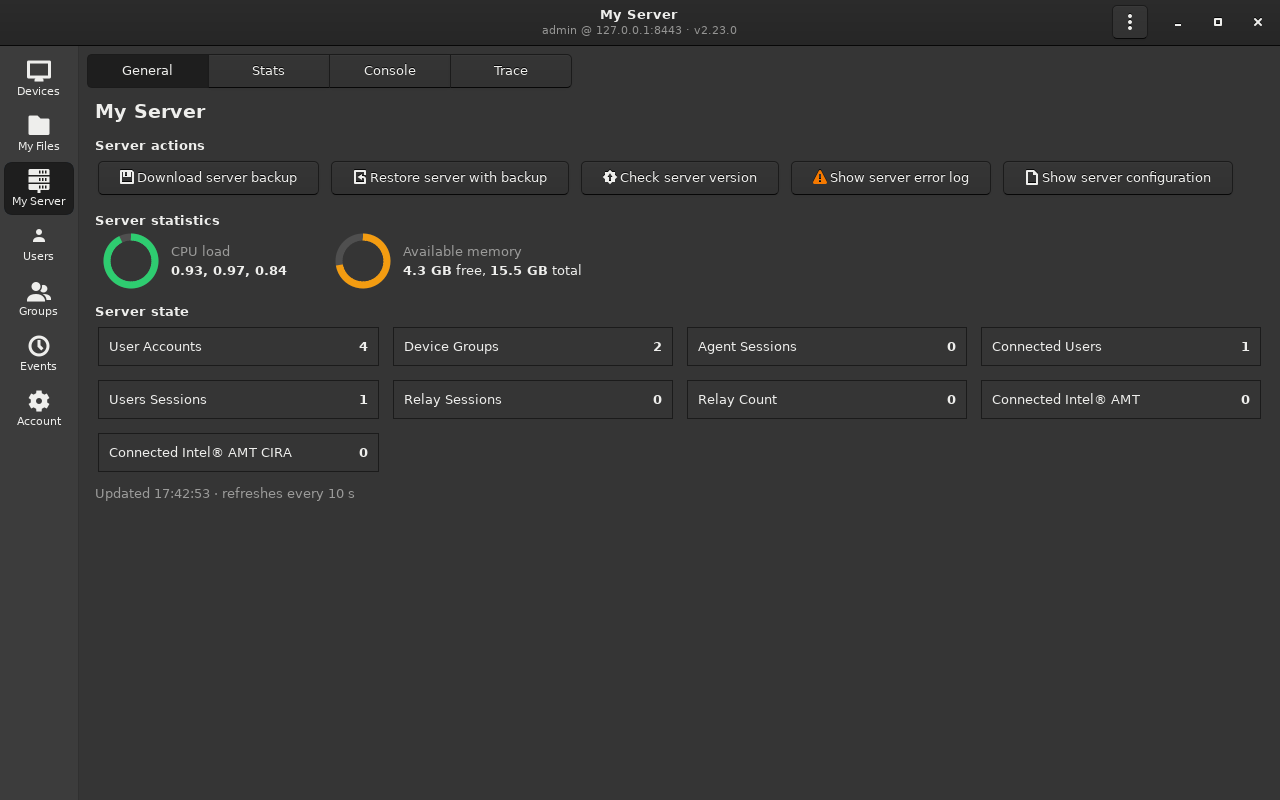
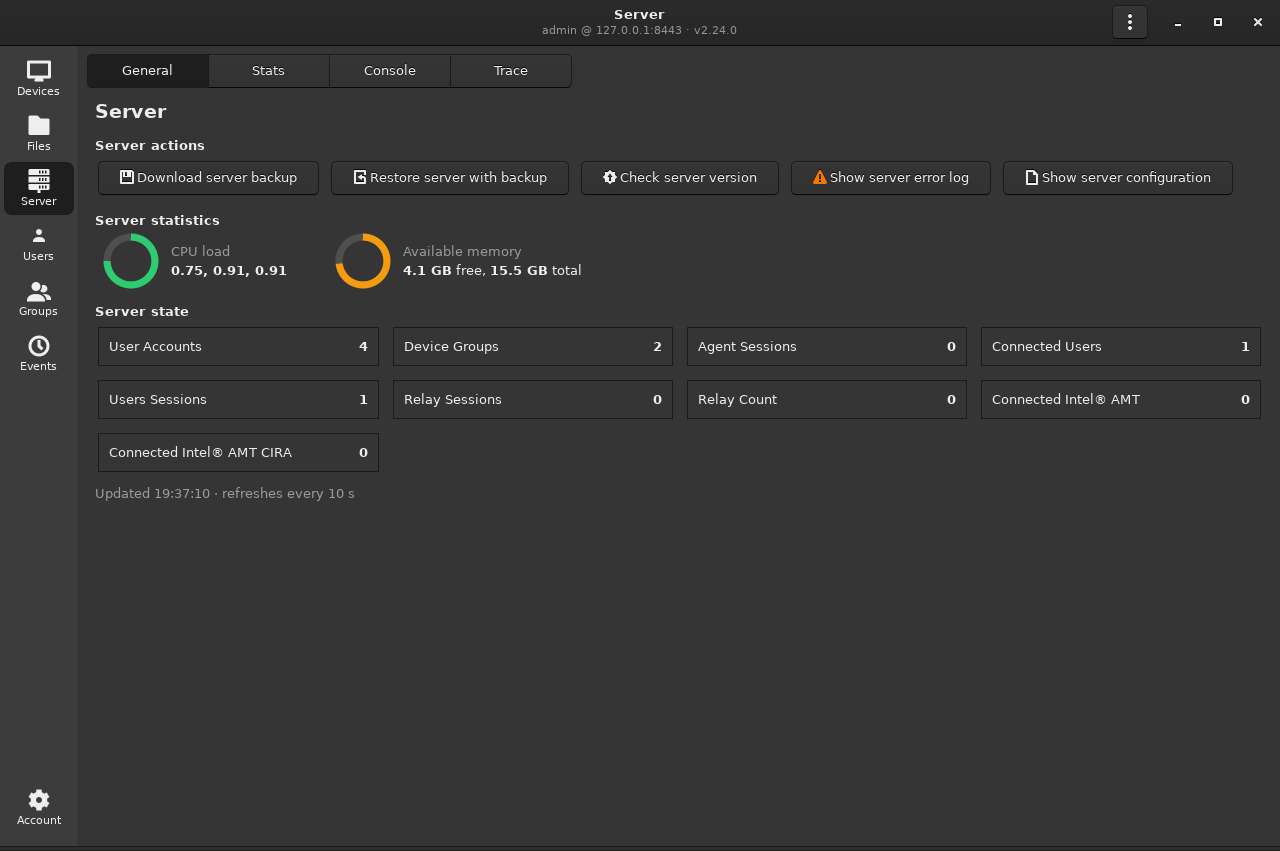
Release 2.24.0: shorter section names, account at the bottom
The navigation rail shows Files and Server instead of My Files and My
Server (window title and page headings too), and Account sits at the
bottom of the rail. Screenshots and documentation updated.

diff --git a/pkg/usr/share/meshcentral-desktop/mcdesktop/mainwindow.py b/pkg/usr/share/meshcentral-desktop/mcdesktop/mainwindow.py
@@ -55,9 +55,9 @@ def _site_any(ctrl, *bits):
 # Sections the account cannot use are hidden (the server enforces the rights anyway).
 NAV = [
     ("devices", "computer-symbolic", "Devices", None, None),
-    ("files", "folder-symbolic", "My Files",
+    ("files", "folder-symbolic", "Files",
      lambda c: rights.has_site(c, rights.SITE_FILEACCESS), ServerFilesPanel),
-    ("server", "network-server-symbolic", "My Server",
+    ("server", "network-server-symbolic", "Server",
      lambda c: _site_any(c, rights.SITE_BACKUP, rights.SITE_RESTORE, rights.SITE_UPDATE), MyServerPanel),
     ("users", "avatar-default-symbolic", "Users",
      lambda c: rights.has_site(c, rights.SITE_MANAGEUSERS), UsersPanel),
@@ -66,7 +66,7 @@ NAV = [
     ("events", "document-open-recent-symbolic", "Events", None, ServerEventsPanel),
     ("account", "emblem-system-symbolic", "Account", None, AccountPanel),
 ]
-_NAV_TITLES = {"devices": "Devices", "files": "My Files", "server": "My Server", "users": "Users",
+_NAV_TITLES = {"devices": "Devices", "files": "Files", "server": "Server", "users": "Users",
                "usergroups": "User Groups", "events": "Server Events", "account": "My Account"}
 _TAB_DENIED = {
     "desktop": "remote desktop", "terminal": "the terminal", "files": "file access",
@@ -189,7 +189,11 @@ class MainWindow(Gtk.ApplicationWindow):
             b.add(inner)
             b.set_tooltip_text(_NAV_TITLES[pid])
             b.connect("toggled", lambda w, p=pid: w.get_active() and self.show_page(p))
-            rail.pack_start(b, False, False, 0)
+            if pid == "account":                           # the account sits at the bottom of the rail
+                b.set_margin_bottom(6)
+                rail.pack_end(b, False, False, 0)
+            else:
+                rail.pack_start(b, False, False, 0)
             self._nav_buttons[pid] = b
         return rail
 

diff --git a/pkg/usr/share/meshcentral-desktop/mcdesktop/server_panel.py b/pkg/usr/share/meshcentral-desktop/mcdesktop/server_panel.py
@@ -583,7 +583,7 @@ class MyServerPanel(Gtk.Box):
     def _build_general(self):
         box = Gtk.Box(orientation=Gtk.Orientation.VERTICAL, margin=16, margin_top=4)
         title = Gtk.Label(xalign=0)
-        title.set_markup("<span size='x-large' weight='bold'>My Server</span>")
+        title.set_markup("<span size='x-large' weight='bold'>Server</span>")
         box.pack_start(title, False, False, 0)
 
         box.pack_start(_section("Server actions"), False, False, 0)
@@ -708,7 +708,7 @@ class MyServerPanel(Gtk.Box):
     def _build_stats(self):
         box = Gtk.Box(orientation=Gtk.Orientation.VERTICAL, margin=16, margin_top=4, spacing=8)
         title = Gtk.Label(xalign=0)
-        title.set_markup("<span size='x-large' weight='bold'>My Server Stats</span>")
+        title.set_markup("<span size='x-large' weight='bold'>Server Stats</span>")
         box.pack_start(title, False, False, 0)
         bar = Gtk.Box(spacing=8)
         refresh = Gtk.Button(label="Refresh", image=Gtk.Image.new_from_icon_name("view-refresh-symbolic",
@@ -879,7 +879,7 @@ class MyServerPanel(Gtk.Box):
     def _build_trace(self):
         box = Gtk.Box(orientation=Gtk.Orientation.VERTICAL, margin=16, margin_top=4, spacing=8)
         title = Gtk.Label(xalign=0)
-        title.set_markup("<span size='x-large' weight='bold'>My Server Tracing</span>")
+        title.set_markup("<span size='x-large' weight='bold'>Server Tracing</span>")
         box.pack_start(title, False, False, 0)
         self._trace = []                                  # newest first
         if not self.full_admin:

diff --git a/pkg/usr/share/meshcentral-desktop/mcdesktop/server_files_panel.py b/pkg/usr/share/meshcentral-desktop/mcdesktop/server_files_panel.py
@@ -55,7 +55,7 @@ class ServerFilesPanel(Gtk.Box):
 
         self.allowed = rights.has_site(app.ctrl, rights.SITE_FILEACCESS)
         if not self.allowed:
-            msg = Gtk.Label(label="Your account does not have access to server files (“My Files”).\n"
+            msg = Gtk.Label(label="Your account does not have access to server files (called “My Files” in the web interface).\n"
                                   "An administrator can grant the “Server Files” permission.",
                             justify=Gtk.Justification.CENTER)
             msg.get_style_context().add_class("dim-label")

diff --git a/pkg/usr/share/meshcentral-desktop/mcdesktop/__init__.py b/pkg/usr/share/meshcentral-desktop/mcdesktop/__init__.py
@@ -1,4 +1,4 @@
 # SPDX-License-Identifier: Apache-2.0
 # Copyright 2026 CYVELION LTD. Unofficial MeshCentral desktop client, see NOTICE.
 """MeshCentral Desktop: native GTK client."""
-__version__ = "2.23.0"
+__version__ = "2.24.0"

diff --git a/README.md b/README.md
@@ -17,7 +17,7 @@ application instead of a browser tab.
   channel as the MeshCentral web interface. No server changes or plugins are needed.
 - **Debian package** (`.deb`), developed and tested on Debian and Debian based distributions.
 
-Current version: **2.23.0**, see the [changelog](CHANGELOG.md).
+Current version: **2.24.0**, see the [changelog](CHANGELOG.md).
 
 ![Users list](docs/images/users.png)
 
@@ -68,11 +68,11 @@ Current version: **2.23.0**, see the [changelog](CHANGELOG.md).
   MeshAgent console.
 
 ### Server administration
-- **My Server**: download a server backup, restore from a backup, check the version and update,
+- **Server** (*My Server* in the web interface): download a server backup, restore from a backup, check the version and update,
   error log, configuration, server warnings, live CPU, memory and server state, history charts
   (connections, memory, CPU, inbound and outbound traffic, CSV export), server console and server
   tracing.
-- **My Files**: the server side file storage (personal folder and device group folders): upload,
+- **Files** (*My Files* in the web interface): the server side file storage (personal folder and device group folders): upload,
   download, new folder, rename, delete, cut, copy and paste, edit small text files.
 - **Users**, like the web interface's *My Users*: online and offline users with live session
   counts, device group count, last access, permissions, filter, Select All and **Group Action**
@@ -106,8 +106,8 @@ not allowed are greyed out with an explanation instead of failing silently. See
 | Sign in | Devices |
 | ![User page](docs/images/user-page.png) | ![Group page](docs/images/group-page.png) |
 | User page | User group page |
-| ![My Server](docs/images/my-server.png) | ![My Account](docs/images/my-account.png) |
-| My Server | My Account |
+| ![Server](docs/images/my-server.png) | ![Account](docs/images/my-account.png) |
+| Server | Account |
 
 The screenshots were taken on a local test server with sample data.
 
@@ -128,7 +128,7 @@ Download the latest `.deb` and `SHA256SUMS` from the
 
 ```bash
 sha256sum -c --ignore-missing SHA256SUMS      # verify the download
-sudo apt install ./meshcentral-desktop_2.23.0_all.deb
+sudo apt install ./meshcentral-desktop_2.24.0_all.deb
 meshcentral-desktop
 ```
 
@@ -178,7 +178,7 @@ system shortcuts. Choose **Allow**.
 - **TLS**: connections to the server are verified against the system certificate store.
 - **Embedded viewer sign-in**: the remote desktop uses MeshCentral's web viewer, so the app signs in
   to the web interface inside its own private WebKit profile (`~/.local/share/meshcentral-desktop/`).
-- **My Files transfers and server backups** use a separate web session that is kept in memory only.
+- **Transfers in Files and server backups** use a separate web session that is kept in memory only.
   The server configuration viewer shows `config.json`, which can contain secrets; it is only
   available to accounts with the server update right.
 - **Clipboard sync agent patch**: on Linux agents, MeshCentral's own clipboard support is unreliable
@@ -199,7 +199,7 @@ Please report security problems privately, see [SECURITY.md](SECURITY.md).
   viewed.
 - Linux agents only share the **X11** clipboard; applications that run only on Wayland on the remote
   side do not see it.
-- Large file downloads from *My Files* need a web sign-in; accounts that must enter a two-factor code
+- Large file downloads from *Files* need a web sign-in; accounts that must enter a two-factor code
   at every web sign-in are limited to files under 200 KB there.
 - Security keys (WebAuthn) can be listed and removed but not registered, because registering needs
   a web browser.

diff --git a/docs/ARCHITECTURE.md b/docs/ARCHITECTURE.md
@@ -34,8 +34,8 @@ pkg/                                   Debian package root (built with dpkg-deb)
 | `info_panel.py` | General, Hardware, Network, Events, Notes |
 | `admin_panel.py` | Users (online / offline tree with checkboxes, Select All, Group Action, filter, live session counts from `wssessioncount`; `NewAccountDialog`, export CSV/JSON, `UserImportDialog` batch import; double-click opens `user_panel.UserPage`), User Groups (+ details, broadcast), Server Events, `BroadcastDialog` |
 | `account_panel.py` | My Account: 2FA (authenticator + QR, backup codes, security keys), previous logins, notification / localization settings, password, login tokens, delete account, device groups, account image |
-| `server_panel.py` | *My Server*: server actions, live statistics (cairo gauges), history charts, server console |
-| `server_files_panel.py` | *My Files* server-side storage |
+| `server_panel.py` | *Server*: server actions, live statistics (cairo gauges), history charts, server console |
+| `server_files_panel.py` | *Files*: server-side storage (*My Files* in the web interface) |
 | `group_panel.py` | Groups: `UserGroupsPanel` (list, Select All, Group Action, New / Duplicate Group) and `GroupPage` (group page) |
 | `user_panel.py` | Users → one user's page (`UserPage`: General + Events, edit dialogs, `RightsDialog` for device-group / device permissions, `show_previous_logins` and `choose_account_image` shared with My Account) |
 | `ui.py` | Small shared helpers (online/OS detection, formatting, dialogs, JSON tree view) |
@@ -49,7 +49,7 @@ pkg/                                   Debian package root (built with dpkg-deb)
 3. `MainWindow` requests `meshes` and `nodes`, builds the tree and listens for `event` messages
    (node changes are debounced into a refresh) and `msg`/`notify` (broadcast cards).
    The window is a **navigation rail** (`NAV`) next to a `Gtk.Stack` of pages. "devices" is the tree +
-   device area; every other page (My Files, My Server, Users, Groups, Events, Account) is constructed
+   device area; every other page (Files, Server, Users, Groups, Events, Account) is constructed
    on its first visit (`show_page`). Rail entries the account cannot use are not created.
 4. Selecting a device creates **empty** page containers in three group notebooks (`DEVICE_GROUPS`:
    Overview / Remote / Tools, switched by a `Gtk.StackSwitcher`). A panel is constructed only when its
@@ -74,7 +74,7 @@ Server panels follow the same contract with `node=None`.
 - `ControlConnection` and each `Tunnel` run their WebSocket on a daemon thread.
 - Every callback into application code is marshalled onto the GTK main loop with
   `GLib.idle_add` (`client._ui`), so UI code never runs on a network thread.
-- `WebSession` transfers (My Files upload / download) run on their own threads and report progress
+- `WebSession` transfers (Files upload / download) run on their own threads and report progress
   through the same mechanism.
 - Sending is thread-safe; the main loop is never blocked by network I/O.
 

diff --git a/docs/DEVELOPMENT.md b/docs/DEVELOPMENT.md
@@ -124,14 +124,14 @@ The MeshCentral source (`npm pack meshcentral`) is the protocol reference:
 | Keyboard | AltGr filtering, hotkey grab and release, Ctrl+Alt+F, Esc not intercepted |
 | Clipboard | agent patch with the empty-display bug simulated, local to remote, remote to local, no echo loops |
 | Services / General | systemctl listing speed and states; agent type and core version |
-| My Files | folder, upload, download (checksum), rename, copy, edit, delete |
+| Files | folder, upload, download (checksum), rename, copy, edit, delete |
 | Permissions | full admin and restricted account: tabs, actions, server tabs, view-only desktop, read-only notes |
 | Broadcast | send from the app to a user group; receive web-style broadcasts (auto-close and sticky) |
 | Run command | `whoami` output |
 | My Account | authenticator (TOTP verified), backup codes, login tokens, image upload and read back, new device group, language, connection cards, password change, delete account; always on throwaway accounts |
 | Users | list with live session counts, filter, Select All, Group Action; New Account (plain and email-as-user-name server, password policy); import and export; user page: every edit dialog, memberships, notes, password change, previous logins, account image, events, delete |
 | Groups | list counts, Select All, Group Action delete, New Group, Duplicate Group; group page: rename, description, consent, members with suggestions, device group and device permissions, delete |
-| Layout / My Server | rail entries per account, only the visible device page is built, fullscreen hides the rail; live statistics, history, server console, backup download |
+| Layout / Server | rail entries per account, only the visible device page is built, fullscreen hides the rail; live statistics, history, server console, backup download |
 
 ## Release checklist
 

diff --git a/docs/PERMISSIONS.md b/docs/PERMISSIONS.md
@@ -35,14 +35,14 @@ Server-wide ("site") rights come from `userinfo.siteadmin`; `0xFFFFFFFF` is a fu
 | Rename, edit tags | Manage devices `4` |
 | Message box, toast | `8` |
 | Clipboard agent patch | `8` + `16` |
-| Device group folder in *My Files* | Server files `32` on that group |
+| Device group folder in *Files* | Server files `32` on that group |
 
 ## Site rights → app features
 
 | Feature | Required (site rights) |
 |---|---|
-| *My Files* | File access `8` |
-| *My Server* (statistics, history) | Backup `1`, restore `4` or update `16` |
+| *Files* | File access `8` |
+| *Server* (statistics, history) | Backup `1`, restore `4` or update `16` |
 | Download server backup | Backup `1` |
 | Restore server | Restore `4` |
 | Check version / update, error log, configuration | Update `16` |
@@ -63,7 +63,7 @@ Server-wide ("site") rights come from `userinfo.siteadmin`; `0xFFFFFFFF` is a fu
 - Action-bar buttons, power menu items and context-menu entries are disabled individually.
 - The desktop opens in **view-only** mode with a "View only" status.
 - Notes open read-only.
-- Server tabs the account cannot use are greyed out; *My Files* explains how to get access.
+- Server tabs the account cannot use are greyed out; *Files* explains how to get access.
 - The Services tab falls back to the agent's (slower) service list when the account may not run commands.
 
 ## Testing

diff --git a/CHANGELOG.md b/CHANGELOG.md
@@ -7,6 +7,11 @@ before that and are available as archived builds on the
 [releases page](https://github.com/d-maggipinto/meshcentral-desktop/releases); their dates are the
 original build dates. Versions 2.0.0 to 2.7.x were never packaged and are listed for reference.
 
+## [2.24.0] - 2026-09-30
+### Changed
+- Navigation rail: *My Files* is now **Files** and *My Server* is now **Server** (window title and
+  page headings too); **Account** moved to the bottom of the rail, apart from the other sections.
+
 ## [2.23.0] - 2026-09-30
 First release published on GitHub. Earlier versions are available as archived builds.
 ### Added

diff --git a/CONTRIBUTING.md b/CONTRIBUTING.md
@@ -10,7 +10,7 @@ Open an issue with the **Bug report** template and include:
 
 - the app version (window subtitle or *About*),
 - your distribution and version, and whether the session is X11 or Wayland,
-- your MeshCentral server version (*My Server*, *Check server version*),
+- your MeshCentral server version (*Server*, *Check server version*),
 - the exact error text or a screenshot, and the steps to reproduce.
 
 Never post passwords, login tokens, server addresses you want to keep private, or screenshots that
